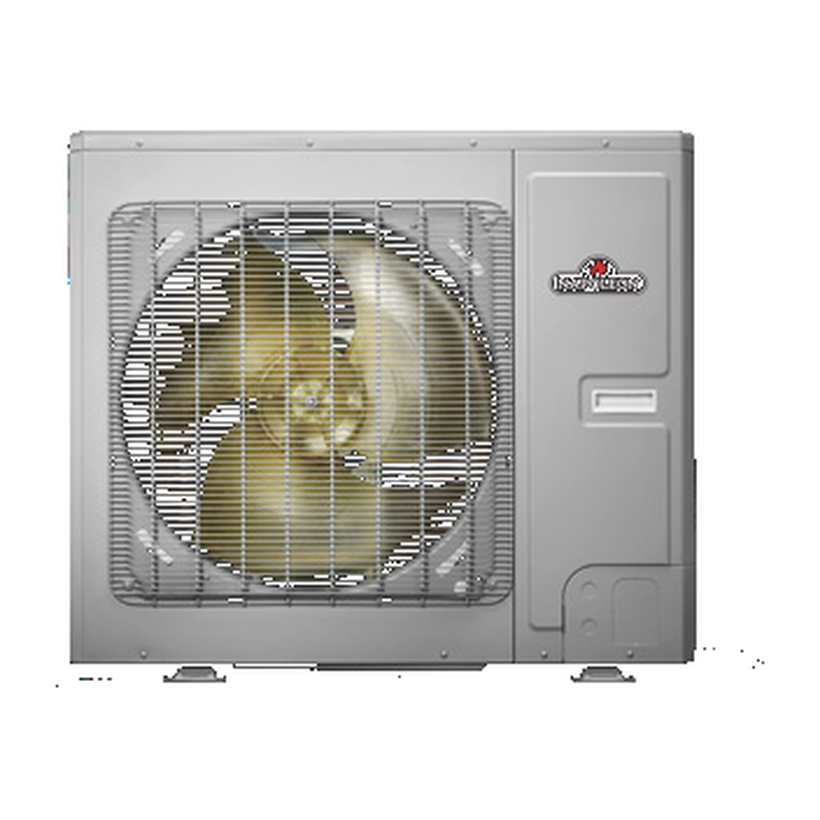
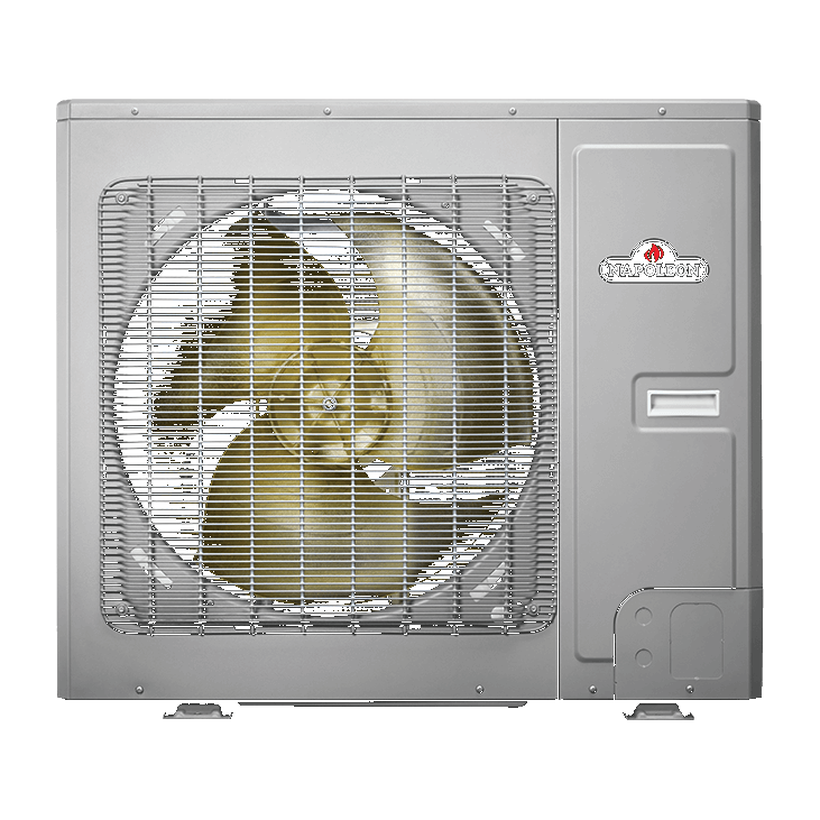
Fix Napoleon heat-pump photos (real STW units: single-fan 2-3T, dual-fan 4-5T) and restore real hydronic air-handler images
Heat pump images now the correct Napoleon-branded units from the manufacturer product pages. Hydronic air handlers show their real product photo instead of a generic air handler.

Claude-Session: https://claude.ai/code/session_01LAW1tA1YjyeHa2KRBjPEgT

diff --git a/index.html b/index.html
@@ -516,10 +516,10 @@ const P=[
   {id:"wtacs0060",cat:"air-conditioners",name:"13.4 SEER2 Air Conditioner, 5 Ton",model:"WTACS0060BA1-C",img:AC_IMG,imgN:"/nap-ac.png",url:"https://www.continentalcomfort.com/en/products/hvac/",price:4185,
     specs:{"Tonnage":"5 ton","Efficiency":"13.4 SEER2","Cooling capacity":"53,000 BTU/h","Dimensions":"47.875 x 29.5 x 29.5 in","Net weight":"250 lbs","Refrigerant":"R-454B"},
     feat:["Scroll compressor with R-454B refrigerant","Microchannel condenser and swept fan blades","Factory-installed liquid line dryer","Service valves outside the cabinet for easy servicing","Removable service panel for electrical access"]},
-  {id:"hp2436",cat:"heat-pumps",name:"Cold Climate Heat Pump, 2 to 3 Ton",model:"WSEHV2436BA1-C",img:"/hp-2436.png?v=2",imgN:"/nap-hp1.png",url:"https://www.continentalcomfort.com/en/products/hvac/",price:4090,
+  {id:"hp2436",cat:"heat-pumps",name:"Cold Climate Heat Pump, 2 to 3 Ton",model:"WSEHV2436BA1-C",img:"/hp-2436.png?v=2",imgN:"/nap-hp1.png?v=2",url:"https://www.continentalcomfort.com/en/products/hvac/",price:4090,
     specs:{"Capacity":"2 to 3 ton (24k-34k BTU/h)","Efficiency":"Up to 18.5 SEER2 · 10 HSPF2 (with air handler)","With cased coil":"16 SEER2 · 8.5 HSPF2","Cold climate":"Heats to −22°F","Compressor":"Hyper Heat DC inverter","Dimensions":"37.8 x 39 x 14.6 in","Net weight":"187 lbs","Refrigerant":"R-454B"},
     feat:["Hyper Heat DC inverter rotary compressor, rated to −22°F","100% heating capacity at −5°F and 100% cooling at 115°F","Side-discharge design with a smaller footprint for narrow spaces","NEEP cold-climate certified; NRCan Greener Homes listed when paired with a furnace or air handler","Works with the EQHub smart thermostat, standard thermostats, or home automation"]},
-  {id:"hp4860",cat:"heat-pumps",name:"Cold Climate Heat Pump, 4 to 5 Ton",model:"WSEHV4860BA1-C",img:"/hp-4860.png?v=2",imgN:"/nap-hp2.png",url:"https://www.continentalcomfort.com/en/products/hvac/",price:5200,
+  {id:"hp4860",cat:"heat-pumps",name:"Cold Climate Heat Pump, 4 to 5 Ton",model:"WSEHV4860BA1-C",img:"/hp-4860.png?v=2",imgN:"/nap-hp2.png?v=2",url:"https://www.continentalcomfort.com/en/products/hvac/",price:5200,
     specs:{"Capacity":"4 to 5 ton (48k-54k BTU/h)","Efficiency":"Up to 19 SEER2 · 9.5 HSPF2 (with air handler)","With cased coil":"16 SEER2 · 8.5–8.8 HSPF2","Cold climate":"Heats to −22°F","Compressor":"Hyper Heat DC inverter","Dimensions":"49.61 x 35.43 x 13.39 in","Net weight":"241 lbs","Refrigerant":"R-454B"},
     feat:["Hyper Heat DC inverter rotary compressor, rated to −22°F","100% heating capacity at −5°F and 100% cooling at 115°F","Taller dual-fan cabinet for 4 and 5 ton capacity","NEEP cold-climate certified; NRCan Greener Homes listed when paired with a furnace or air handler","Works with the EQHub smart thermostat, standard thermostats, or home automation"]},
   {id:"wpfx24a",cat:"air-handlers",name:"18 SEER2 Air Handler, 2 Ton",model:"WPFX24A-C",img:IMG+"s--16eJ8ZJZ--/elglgcklexgbuhanoks2.png",imgN:"/nap-airhandler.png",url:"https://www.continentalcomfort.com/en/products/hvac/",price:2835,
@@ -624,16 +624,16 @@ const P=[
   {id:"cdhambb48o",cat:"ductless",name:"Multi-Zone Outdoor Unit, 48K (6 zones)",model:"CDHAMBB-48-O",img:IMG+"s--6Cuvun5L--/jpy8wdffjgnkxcd8obqb.png",imgN:"/nap-dl-multizone.png",url:"https://www.continentalcomfort.com/en/products/hvac/wc-multi-zone/",price:6080,
     specs:{"Type":"Multi-zone outdoor unit","Nominal capacity":"48,000 BTU/h","Zones":"Up to 6 indoor units","Cold climate":"Heats to -22F","Refrigerant":"R-454B"},
     feat:["Connects up to 6 indoor units on one outdoor","Dual-fan cabinet for higher capacity","Cold-climate performance to -22F","Pairs with any Continental indoor head style (wall, cassette, console, slim duct)","R-454B low-GWP refrigerant"]},
-  {id:"lvp",cat:"hydronic",name:"LVP Modulating Air Handler",model:"WC-LVP-…-C",img:IMG+"s--I9oE3Iz3--/fixddoz1dwkmy5mcqjh5.png",imgN:"/nap-airhandler.png",url:"https://www.continentalcomfort.com/en/products/hydronic-air-handlers/wc-lvp-series/",price:1520,from:true,
+  {id:"lvp",cat:"hydronic",name:"LVP Modulating Air Handler",model:"WC-LVP-…-C",img:IMG+"s--I9oE3Iz3--/fixddoz1dwkmy5mcqjh5.png",url:"https://www.continentalcomfort.com/en/products/hydronic-air-handlers/wc-lvp-series/",price:1520,from:true,
     specs:{"Control":"Modulating, variable-speed","Install":"FlexFit"},
     feat:["FlexFit installation","Flexible heating stages","Variable-speed control"]},
-  {id:"hvp",cat:"hydronic",name:"HVP High Velocity Air Handler",model:"WC-HVP-…-C",img:IMG+"s--dXRhG19E--/r0bqfjlmouvx80zsee3l.png",imgN:"/nap-airhandler.png",url:"https://www.continentalcomfort.com/en/products/hydronic-air-handlers/wc-hvp-series/",price:1420,from:true,
+  {id:"hvp",cat:"hydronic",name:"HVP High Velocity Air Handler",model:"WC-HVP-…-C",img:IMG+"s--dXRhG19E--/r0bqfjlmouvx80zsee3l.png",url:"https://www.continentalcomfort.com/en/products/hydronic-air-handlers/wc-hvp-series/",price:1420,from:true,
     specs:{"Airflow":"High velocity","Blower":"High-efficiency ECM"},
     feat:["High-velocity airflow","High-efficiency ECM blower motor","Zoning-system compatible"]},
-  {id:"hvpz",cat:"hydronic",name:"HVP Zoned High Velocity Air Handler",model:"WC-HVPZ-…-C",img:IMG+"s--zsEDR7Az--/mmebuvtdncjseezfqgby.png",imgN:"/nap-airhandler.png",url:"https://www.continentalcomfort.com/en/products/hydronic-air-handlers/wc-hvpz-series/",price:1720,from:true,
+  {id:"hvpz",cat:"hydronic",name:"HVP Zoned High Velocity Air Handler",model:"WC-HVPZ-…-C",img:IMG+"s--zsEDR7Az--/mmebuvtdncjseezfqgby.png",url:"https://www.continentalcomfort.com/en/products/hydronic-air-handlers/wc-hvpz-series/",price:1720,from:true,
     specs:{"Zoning":"Up to 5 zones","Blower":"High-efficiency ECM"},
     feat:["Zoning for up to 5 zones","High-efficiency ECM blower motor","High-velocity airflow"]},
-  {id:"lvs",cat:"hydronic",name:"LVS Multi-Speed Air Handler",model:"WC-LVS-…-C",img:IMG+"s--ukd6O4xK--/hjoblgd05hjsaucj4rvb.png",imgN:"/nap-airhandler.png",url:"https://www.continentalcomfort.com/en/products/hydronic-air-handlers/wc-lvs-series/",price:1320,from:true,
+  {id:"lvs",cat:"hydronic",name:"LVS Multi-Speed Air Handler",model:"WC-LVS-…-C",img:IMG+"s--ukd6O4xK--/hjoblgd05hjsaucj4rvb.png",url:"https://www.continentalcomfort.com/en/products/hydronic-air-handlers/wc-lvs-series/",price:1320,from:true,
     specs:{"Control":"Multi-speed","Feature":"Dehumidification"},
     feat:["Dehumidification functionality","Adjustable airflow control","Multi-speed heating"]},
   {id:"wpcc24",cat:"coils",name:"WPCC24 Cased Coil",model:"WPCC24ABA1-C",img:COIL_IMG,imgN:"/nap-coil.png",url:"https://www.continentalcomfort.com/en/products/hvac/",price:1700,
